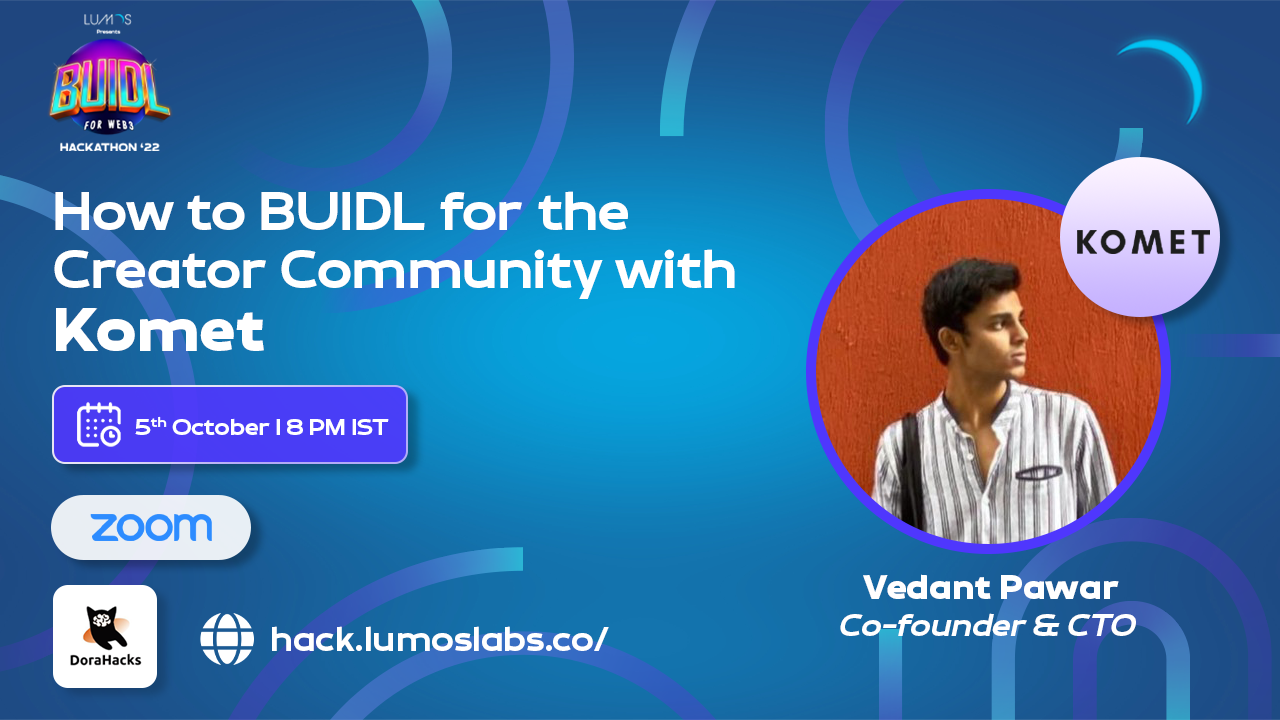
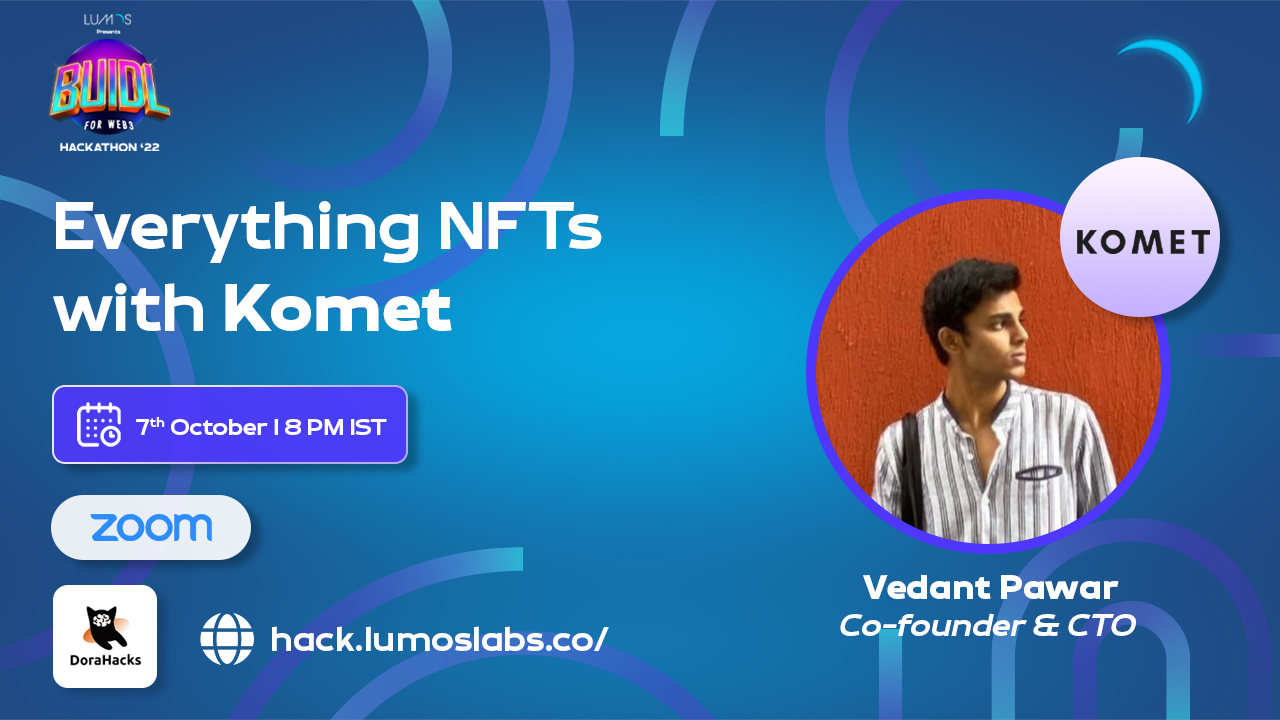
updated Komet workshop content

Changed region(s): [[0.0312, 0.2444, 0.5938, 0.4889], [0.0938, 0.5806, 0.3125, 0.6111]]

diff --git a/src/components/Workshops.vue b/src/components/Workshops.vue
@@ -124,9 +124,9 @@ export default {
                 
                 {
                     image: require('~/assets/workshops/kometYoutube.png'),
-                    title: "BUIDL for the Creator Community with Komet",
+                    title: "Intro to Everything NFTs with Komet",
                     subtitle: "Speaker: Vedant Pawar, Co-founder, CTO \u00a0\u00a0\u00a0\u00a0\u00a0\u00a0\u00a0\u00a0\u00a0\u00a0\u00a0\u00a0\u00a0",
-                    date: "6th October",
+                    date: "7th October",
                     time: "8 - 9 PM IST",
                     platform: require('~/assets/workshops/platform.png'),
                     registerUrl: "https://us06web.zoom.us/webinar/register/2516631576772/WN_ZITkOwN4SWaE1xuijOf-ug",

diff --git a/src/.temp/now.js b/src/.temp/now.js
@@ -1,1 +1,1 @@
-export default 1664887488559
+export default 1665040693514
